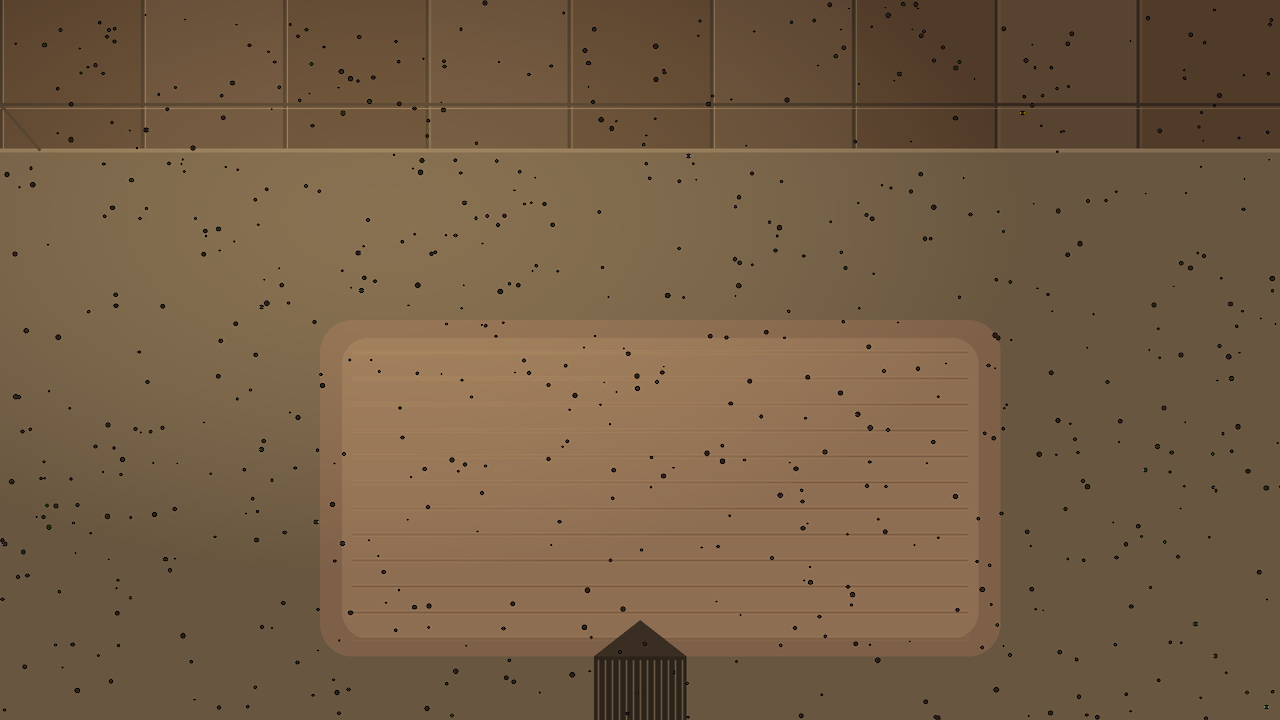
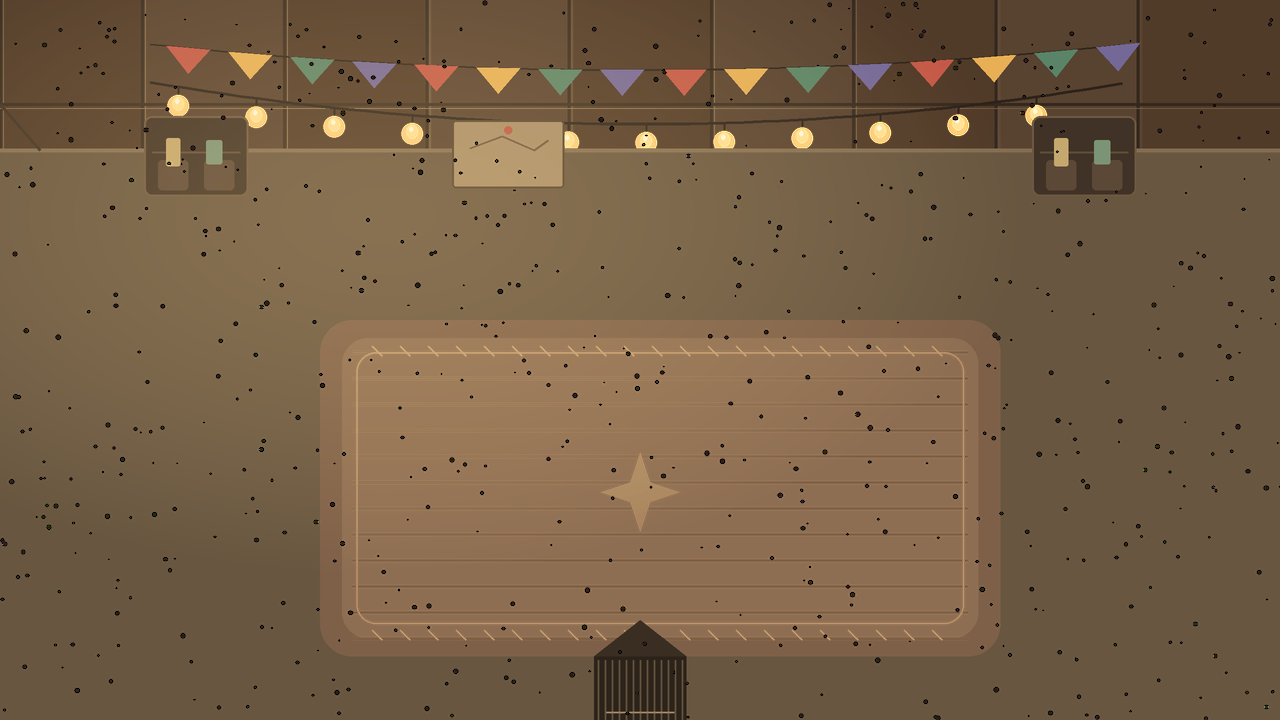
텐트 안 배경 장식과 비충돌 장식 소품 4종 추가

diff --git a/Project/pico_heist/make_assets.py b/Project/pico_heist/make_assets.py
@@ -311,7 +311,7 @@ def glow(size, color, a=90):
 
 
 def bg_tent():
-    """텐트 안 — 캔버스 벽과 바닥 매트, 가운데 랜턴 빛."""
+    """텐트 안 — 캔버스 벽, 깃발·전등 줄, 수납 포켓, 패턴 매트, 랜턴 빛."""
     ss = 2
     im = Image.new("RGBA", (W * ss, H * ss), (74, 58, 44, 255))
     d = ImageDraw.Draw(im)
@@ -327,6 +327,35 @@ def bg_tent():
     # 천 이음선
     d.line([0, 104 * ss, W * ss, 104 * ss], fill=(52, 40, 30, 200), width=3 * ss)
     d.line([0, 108 * ss, W * ss, 108 * ss], fill=(116, 96, 74, 90), width=1 * ss)
+
+    def sag(x, top, drop, x0=150, x1=1130):
+        """두 지점 사이에 늘어진 줄의 y 좌표."""
+        t = (x - x0) / (x1 - x0)
+        return top + drop * (1.0 - (2.0 * t - 1.0) ** 2)
+
+    # ---- 깃발 줄 (천장)
+    flag_colors = [(196, 88, 72, 235), (232, 176, 86, 235),
+                   (90, 132, 104, 235), (116, 104, 152, 235)]
+    d.line([(x * ss, sag(x, 44, 26) * ss) for x in range(150, 1131, 18)],
+           fill=(46, 36, 28, 255), width=2 * ss, joint="curve")
+    for i, x in enumerate(range(166, 1111, 62)):
+        y1, y2 = sag(x, 44, 26), sag(x + 44, 44, 26)
+        d.polygon([(x * ss, y1 * ss), ((x + 44) * ss, y2 * ss),
+                   ((x + 22) * ss, (y1 + y2) / 2 * ss + 26 * ss)],
+                  fill=flag_colors[i % len(flag_colors)])
+    # ---- 전등 줄 (깃발 아래, 따뜻한 전구)
+    d.line([(x * ss, sag(x, 82, 42) * ss) for x in range(150, 1131, 18)],
+           fill=(44, 34, 26, 255), width=3 * ss, joint="curve")
+    for x in range(178, 1110, 78):
+        y = sag(x, 82, 42)
+        d.line([(x * ss, y * ss), (x * ss, (y + 11) * ss)],
+               fill=(44, 34, 26, 255), width=2 * ss)
+        d.ellipse([(x - 11) * ss, (y + 8) * ss, (x + 11) * ss, (y + 30) * ss],
+                  fill=(255, 206, 120, 60))
+        d.ellipse([(x - 6) * ss, (y + 10) * ss, (x + 6) * ss, (y + 24) * ss],
+                  fill=(255, 226, 150, 255))
+        d.ellipse([(x - 3) * ss, (y + 12) * ss, (x + 1) * ss, (y + 17) * ss],
+                  fill=(255, 250, 224, 255))
     # 바닥 매트
     d.rectangle([0, 150 * ss, W * ss, H * ss], fill=(104, 86, 64, 255))
     d.line([0, 150 * ss, W * ss, 150 * ss], fill=(132, 110, 82, 235), width=4 * ss)
@@ -337,6 +366,42 @@ def bg_tent():
     for y in range(352, 640, 26):
         d.line([352 * ss, y * ss, 968 * ss, y * ss], fill=(128, 98, 72, 110),
                width=2 * ss)
+    # 러그 테두리 바느질 + 가운데 별 무늬
+    d.rounded_rectangle([356 * ss, 352 * ss, 964 * ss, 624 * ss], 20 * ss,
+                        outline=(178, 140, 102, 140), width=2 * ss)
+    for x in range(372, 956, 28):
+        d.line([(x * ss, 346 * ss), ((x + 10) * ss, 356 * ss)],
+               fill=(190, 150, 108, 120), width=2 * ss)
+        d.line([(x * ss, 630 * ss), ((x + 10) * ss, 640 * ss)],
+               fill=(190, 150, 108, 120), width=2 * ss)
+    cx, cy = 640, 492
+    d.polygon([(cx * ss, (cy - 40) * ss), ((cx + 10) * ss, (cy - 10) * ss),
+               ((cx + 40) * ss, cy * ss), ((cx + 10) * ss, (cy + 10) * ss),
+               (cx * ss, (cy + 40) * ss), ((cx - 10) * ss, (cy + 10) * ss),
+               ((cx - 40) * ss, cy * ss), ((cx - 10) * ss, (cy - 10) * ss)],
+              fill=(166, 130, 94, 95))
+    # ---- 벽 수납 포켓 (좌우, 이음선 아래에 걸려 있음)
+    for bx in (196, 1084):
+        d.rounded_rectangle([(bx - 52) * ss, 116 * ss, (bx + 52) * ss, 196 * ss],
+                            8 * ss, fill=(64, 50, 38, 255),
+                            outline=(110, 88, 64, 255), width=2 * ss)
+        d.line([(bx - 44) * ss, 152 * ss, (bx + 44) * ss, 152 * ss],
+               fill=(96, 76, 56, 255), width=2 * ss)
+        for x0, x1 in ((bx - 38, bx - 8), (bx + 8, bx + 38)):
+            d.rounded_rectangle([x0 * ss, 160 * ss, x1 * ss, 190 * ss],
+                                4 * ss, fill=(92, 72, 54, 255))
+        d.rounded_rectangle([(bx - 30) * ss, 138 * ss, (bx - 16) * ss, 166 * ss],
+                            2 * ss, fill=(196, 168, 110, 255))
+        d.rounded_rectangle([(bx + 10) * ss, 140 * ss, (bx + 26) * ss, 164 * ss],
+                            2 * ss, fill=(124, 148, 118, 255))
+    # ---- 벽에 걸린 지도 메모
+    d.rounded_rectangle([452 * ss, 120 * ss, 564 * ss, 188 * ss], 4 * ss,
+                        fill=(168, 142, 104, 255), outline=(88, 68, 48, 255),
+                        width=2 * ss)
+    d.line([(470 * ss, 148 * ss), (502 * ss, 136 * ss), (534 * ss, 150 * ss),
+            (548 * ss, 140 * ss)], fill=(110, 86, 62, 220), width=2 * ss)
+    d.ellipse([(504 * ss, 126 * ss), (512 * ss, 134 * ss)],
+              fill=(190, 88, 72, 255))
     # 지퍼 출입구 (아래 가운데)
     d.rectangle([594 * ss, 656 * ss, 686 * ss, H * ss], fill=(44, 35, 26, 255))
     d.polygon([(594 * ss, 656 * ss), (640 * ss, 620 * ss), (686 * ss, 656 * ss)],
@@ -345,6 +410,8 @@ def bg_tent():
         d.line([x * ss, 660 * ss, x * ss, H * ss], fill=(92, 76, 58, 190),
                width=2 * ss)
     d.line([0, 104 * ss, 40 * ss, 150 * ss], fill=(60, 46, 34, 200), width=3 * ss)
+    d.line([(606 * ss, 712 * ss), (674 * ss, 712 * ss)],
+           fill=(150, 124, 92, 170), width=2 * ss)
     # 랜턴 빛
     im.alpha_composite(radial(W * ss, H * ss, (255, 214, 146), 54, 0, 0.30, 0.30))
     grain(im, (40, 30, 22), 700, size=(1, 3), alpha=(14, 46), ss=ss)

diff --git a/Project/pico_heist/art_sprites.py b/Project/pico_heist/art_sprites.py
@@ -478,6 +478,69 @@ def grill():
     return down(im, w, h)
 
 
+def backpack():
+    """텐트 구석에 놓인 배낭 — 장식용."""
+    w, h, ss = 58, 70, 3
+    im = Image.new("RGBA", (w * ss, h * ss), (0, 0, 0, 0))
+    p = Pen(im, ss)
+    p.rr((14, 4, 22, 42), 3, "#2F4A39")       # 어깨끈
+    p.rr((36, 4, 44, 42), 3, "#2F4A39")
+    p.rr((14, 6, 44, 18), 5, "#58785D")       # 말아 올린 입구
+    p.rr((8, 14, 50, 66), 10, "#3E5B44", "#223B2C", 1.2)
+    p.rr((12, 18, 46, 42), 8, "#4C6B52")
+    p.rr((10, 30, 48, 44), 5, "#2A4030")      # 덮개
+    p.rr((24, 34, 34, 42), 2, "#D9B36A")      # 버클
+    p.rr((18, 50, 40, 62), 4, "#365341")      # 앞주머니
+    p.pline([(22, 56), (36, 56)], "#8FA070", 1.2)
+    return down(im, w, h)
+
+
+def rollmat():
+    """말아 놓은 여행 매트 — 장식용."""
+    w, h, ss = 100, 34, 3
+    im = Image.new("RGBA", (w * ss, h * ss), (0, 0, 0, 0))
+    p = Pen(im, ss)
+    p.ell((6, 8, 94, 30), "#5C6C44")
+    p.ell((10, 10, 90, 26), "#7D9060")
+    for x in (30, 54, 74):
+        p.pline([(x, 11), (x, 25)], "#5C6C44", 1.4)
+    p.rr((24, 8, 32, 28), 2, "#3E4A32")       # 묶는 끈
+    p.rr((64, 8, 72, 28), 2, "#3E4A32")
+    p.ell((82, 9, 98, 29), "#4E5E3E")         # 말린 단면
+    p.ell((85, 12, 95, 26), "#8FA070")
+    p.ell((88, 15, 92, 23), "#4E5E3E")
+    return down(im, w, h)
+
+
+def mug():
+    """따뜻한 음료가 담긴 머그컵 — 장식용."""
+    w, h, ss = 38, 40, 3
+    im = Image.new("RGBA", (w * ss, h * ss), (0, 0, 0, 0))
+    p = Pen(im, ss)
+    p.arc((23, 12, 35, 30), 270, 90, "#D9D2BE", 2)   # 손잡이
+    p.pline([(12, 8), (10, 3)], "#D8D2C0", 1.2)      # 김
+    p.pline([(20, 8), (22, 2)], "#D8D2C0", 1.2)
+    p.rr((6, 12, 28, 36), 5, "#C4653F", "#8A402A", 1)
+    p.ell((6, 10, 28, 18), "#E8E1CB")
+    p.ell((9, 12, 25, 16), "#6B4E32")
+    return down(im, w, h)
+
+
+def book():
+    """공책과 연필 — 장식용."""
+    w, h, ss = 48, 30, 3
+    im = Image.new("RGBA", (w * ss, h * ss), (0, 0, 0, 0))
+    p = Pen(im, ss)
+    p.rr((4, 10, 44, 26), 3, "#3E6E6A", "#254A47", 1)
+    p.rr((9, 12, 40, 22), 2, "#EDE4CF")
+    p.pline([(11, 16), (38, 16)], "#B9B09A", 1)
+    p.pline([(11, 20), (32, 20)], "#B9B09A", 1)
+    p.rr((4, 10, 10, 26), 2, "#254A47")        # 책등
+    p.pline([(16, 26), (40, 8)], "#E9A63F", 2)  # 연필
+    p.poly([(40, 8), (45, 5), (41, 11)], "#D9B36A")
+    return down(im, w, h)
+
+
 def sleepbag():
     """텐트 안 침낭 (가로로 눕힌 형태)."""
     w, h, ss = 132, 68, 3
@@ -680,6 +743,10 @@ def build_all():
     save(speaker(), "prop_speaker.png")
     save(bench(), "prop_bench.png")
     save(grill(), "prop_grill.png")
+    save(backpack(), "prop_backpack.png")
+    save(rollmat(), "prop_rollmat.png")
+    save(mug(), "prop_mug.png")
+    save(book(), "prop_book.png")
     save(sleepbag(), "prop_sleepbag.png")
     save(sleeper(), "prop_sleeper.png")
 

diff --git a/Project/pico_heist/maps.py b/Project/pico_heist/maps.py
@@ -82,6 +82,11 @@ MAPS = [
                 ("prop_crate", 770, 285, 1.00),
                 ("prop_crate", 770, 320, 1.00),
                 ("prop_crate", 820, 208, 1.00),      # 위쪽 우회 차단
+                # ---- 장식용 소품 (충돌·엄폐 없음, 동선/감지에 영향 없음)
+                ("prop_backpack", 250, 470, 1.00),   # 왼쪽 짐 자리
+                ("prop_rollmat", 1050, 470, 1.00),   # 오른쪽 말아 놓은 매트
+                ("prop_mug", 300, 600, 1.00),        # 쿨러 옆 머그컵
+                ("prop_book", 1060, 250, 1.00),      # 오른쪽 위 공책
             ],
             "food": ("mallow", 820, 286),
             "campers": [

diff --git a/Project/pico_heist/game.py b/Project/pico_heist/game.py
@@ -126,6 +126,11 @@ PROP_SPECS = {
     "prop_grill":      dict(solid=(60, 22), cover=None, pad=2, shadow=64),
     "prop_sleepbag":   dict(solid=(0, 0), cover=None, pad=2, shadow=118),
     "prop_sleeper":    dict(solid=(0, 0), cover=None, pad=2, shadow=0),
+    # 텐트 장식 소품 — 충돌·엄폐·은신 기능 없이 보이는 것만 한다
+    "prop_backpack":   dict(solid=(0, 0), cover=None, pad=1, shadow=44),
+    "prop_rollmat":    dict(solid=(0, 0), cover=None, pad=1, shadow=80),
+    "prop_mug":        dict(solid=(0, 0), cover=None, pad=1, shadow=24),
+    "prop_book":       dict(solid=(0, 0), cover=None, pad=1, shadow=36),
 }
 
 

diff --git a/Project/pico_heist/README.md b/Project/pico_heist/README.md
@@ -60,7 +60,7 @@ python main.py
 - **3번 맵에만 무대 뒤 조리 부스** 서브 맵이 있다. 주황 부스 앞에서 **E**로 들어가고, 안쪽 출입구에서 다시 **E**로 나온다. 진짜 음식 수프가 이 안에 있다.
 - 2번 맵에는 **부두 위에 서 있는 사람이 없다.** 대신 호숫가 언덕에 **앉아서 낚시하는 캠핑객**이 물을 바라보며 앉아 있다(낚싯줄과 물결 연출 포함).
 - 텐트 안에는 **자는 사람**이 있다. 시야는 없지만 **가까이 가면 감지도가 아주 급격하게 오른다**.
-- 텐트 안에는 테이블·쿨러·크레이트 짐더미까지 **소품 11개**가 있어 문에서 음식까지 동선이 한 번씩 꺾인다. 테이블은 추격 시야를 끊는 유일한 엄폐물이다. (자는 사람은 소리를 듣지 않으므로 이 소품들은 감지 수치를 낮추지 않고, 동선만 늘린다.)
+- 텐트 안에는 테이블·쿨러·크레이트 짐더미까지 **소품 15개**가 있어 문에서 음식까지 동선이 한 번씩 꺾인다. 테이블은 추격 시야를 끊는 유일한 엄폐물이다. (자는 사람은 소리를 듣지 않으므로 이 소품들은 감지 수치를 낮추지 않고, 동선만 늘린다.) 배낭·말아 놓은 매트·머그컵·공책 4개는 **충돌·엄폐가 없는 순수 장식**이라 동선과 감지에 영향을 주지 않는다. 벽에는 깃발·전등 줄·수납 포켓·지도 메모가 걸려 있고 바닥에는 무늬 러그가 깔려 있다.
 - 텐트 안에서 쫓기면 출입구로 도망쳐 나올 수 있다 (나가는 순간 추격 종료).
 - 마지막 음식(=진짜 음식)이 텐트 안에 있으면, **밖으로 나오는 순간 출구가 열린다.** 게이트까지 걸어가 E를 눌러야 다음 맵으로 간다.
 - **2번 맵 호숫가 낚시 맵**: 나무 배 위에서만 움직인다. E 홀드 게이지가 1.5초면 가득 차고, 초록 구간 타이밍에 E를 떼면 물고기가 떠오르는 연출과 소음(26)이 발생한다. 빗나가면 도망친다. 잡은 생선은 HUD 15칸의 ★ 슬롯에 들어간다.
@@ -111,7 +111,7 @@ pico_heist/
 ├─ maps.py          # 3개 맵 + 텐트 안 1개 + 호숫가 낚시 맵 (소품·음식·캠핑객·출구 길·물/벽 충돌)
 ├─ art_sprites.py   # 캐릭터·소품·음식·침낭/자는 사람 스프라이트 생성 (PIL)
 ├─ make_assets.py   # 배경 5종·시야 콘·HUD·텐트/낚시배·출구 게이트/길 표지·인트로/엔딩 오버레이 + 발소리 WAV 생성
-└─ assets/          # 생성된 PNG 155개 + WAV 2개
+└─ assets/          # 생성된 PNG 159개 + WAV 2개
 ```
 
 - 맵 추가는 `maps.py`의 `MAPS` 리스트에 딕셔너리 하나를 더 넣으면 됩니다.
@@ -154,7 +154,7 @@ pico2d 창을 띄운 상태에서 로직을 직접 실행하는 자동 검증 22
 - 감지 100% → 추격 시작, 추격 중 거리 감소, 따라잡히면 게임 오버
 - 따돌리면 추격 종료 → 원래 자리 복귀 → 다시 순찰 (추격 속도 240 확인)
 - 시야 콘(뒤·콘 밖), 엄폐물에 의한 시야 차단, 수풀 은신·해제·근거리 예외
-- **텐트 출입(E) · 텐트 안 음식 · 자는 사람 근접 급상승 · 텐트 소품 11개 · 텐트에서 출구 개방 지연**
+- **텐트 출입(E) · 텐트 안 음식 · 자는 사람 근접 급상승 · 텐트 소품 15개(장식 4개 포함) · 텐트에서 출구 개방 지연**
 - 음식 프롬프트·획득·획득 소음
 - **수풀 앉기(X): 이동 정지 · 근거리·자는 사람·추격 시야 무시 · 추격 포기 · 수풀 이탈 시 자동 일어남**
 - 5개 수집(야외 4 + 텐트 1) → 출구 개방 → **게이트까지 걸어가 E를 눌러야** 다음 맵 전환, 물 충돌, 15개 수집 → 최종 게이트 → 클리어, R 재시작
@@ -168,7 +168,7 @@ pico2d 창을 띄운 상태에서 로직을 직접 실행하는 자동 검증 22
 - **걸어서 다음 맵으로: 맵 완료 시 게이트 + 길 표지 표시, 게이트 밖에서는 E 프롬프트 없음, 낚시 후 부두 복귀에도 출구 유지, 마지막 게이트 E에서만 win**
 - **HUD 15칸 유지, 별 표시 + 남은 음식(5→0)/진짜 음식(0/3) 카운터 검증**
 - 맵/음식 데이터, 15종 음식 중복 없음, 맵마다 수풀 5개 이상, 텐트 소품 포함 모든 스프라이트 존재
-- 텐트 소품 11개(테이블 엄폐 포함), 텐트 음식이 항상 자는 사람의 위험 반경 안에 있는지
+- 텐트 소품 15개(테이블 엄폐 + 장식 4개는 충돌·엄폐 없음), 텐트 음식이 항상 자는 사람의 위험 반경 안에 있는지
 
 ## 아직 없는 것 (3주차 이후)
 
